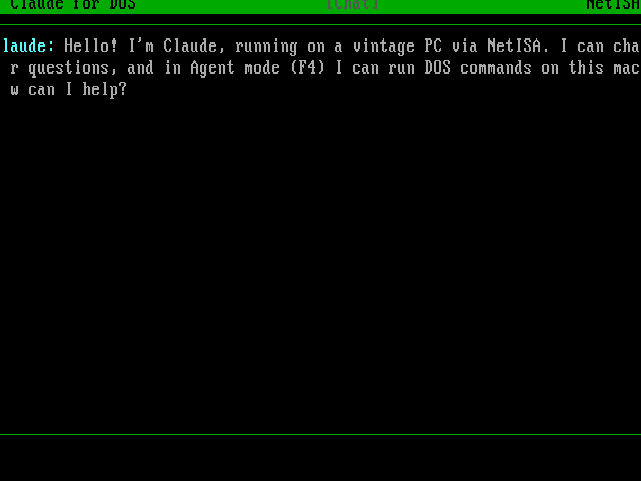
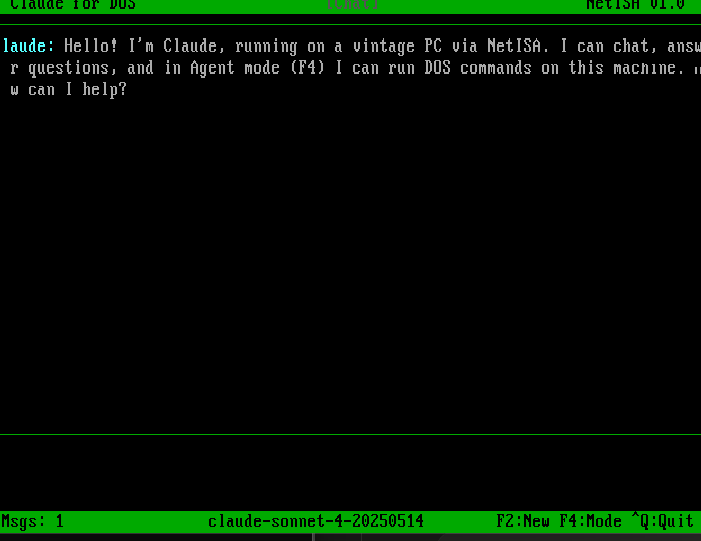
Add animated GIF of Claude for DOS startup sequence
22-frame animated GIF showing Neural POST boot, CRT static burst,
column-sweep CLAUDE logo reveal, tagline, and transition to chat.
Updated static screenshots with cleaner crops.

Changed region(s): [[0.0, 0.0, 1.0, 0.2183], [0.0, 0.9356, 1.0, 1.0], [0.0, 0.7796, 1.0, 0.8108]]

diff --git a/netisa.html b/netisa.html
@@ -256,11 +256,15 @@
 
     <div class="screenshots">
         <figure>
-            <img src="/img/claude-splash.png" alt="Claude for DOS splash screen showing large green block-art CLAUDE logo, 'for DOS' subtitle, tagline '640K of RAM. Billions of parameters. One ISA slot.', version info, and 'Press any key to begin' prompt" width="641" height="481">
-            <figcaption>Animated splash screen with block-art logo</figcaption>
+            <img src="/img/claude-splash.gif" alt="Animated sequence showing Claude for DOS startup: fake Neural POST boot sequence with Constitutional AI check gag, CRT static burst, column-sweep block-art CLAUDE logo reveal, tagline '640K of RAM. Billions of parameters. One ISA slot.', then transition to chat interface" width="701" height="541">
+            <figcaption>Full startup sequence: Neural POST, logo reveal, chat</figcaption>
         </figure>
         <figure>
-            <img src="/img/claude-chat.png" alt="Claude for DOS chat interface showing green title bar with 'Claude for DOS' and Chat mode indicator, Claude's welcome message about running on a vintage PC via NetISA, compose area, and status bar" width="641" height="481">
+            <img src="/img/claude-splash.png" alt="Claude for DOS splash screen showing large green block-art CLAUDE logo, 'for DOS' subtitle, tagline '640K of RAM. Billions of parameters. One ISA slot.', version info, and 'Press any key to begin' prompt" width="701" height="541">
+            <figcaption>Splash screen with block-art logo</figcaption>
+        </figure>
+        <figure>
+            <img src="/img/claude-chat.png" alt="Claude for DOS chat interface showing green title bar with 'Claude for DOS' and Chat mode indicator, Claude's welcome message about running on a vintage PC via NetISA, compose area, and status bar" width="701" height="541">
             <figcaption>Chat interface with welcome message</figcaption>
         </figure>
     </div>
